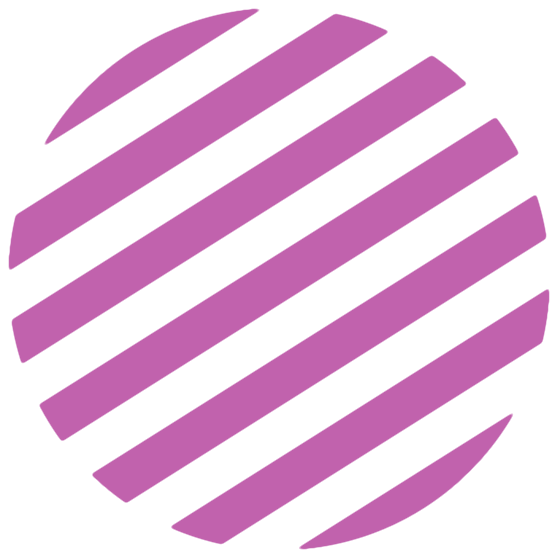
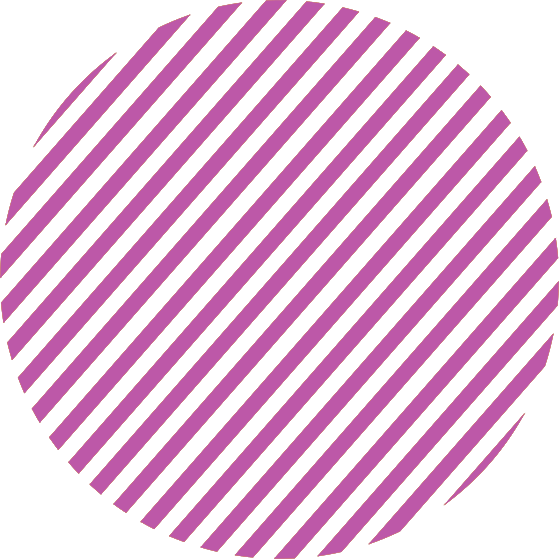
small changes and new circle img

diff --git a/src/components/addon/GalleryAddon1.jsx b/src/components/addon/GalleryAddon1.jsx
@@ -221,12 +221,12 @@ const GalleryAddon1 = ({ title }) => {
                       onClick={() =>
                         trackElementClickEvent(
                           "carousel_link",
-                          "Läs Mer...",
+                          "Läs Mer",
                           images[currentIndex].link
                         )
                       }
                     >
-                      Läs Mer...
+                      Läs Mer
                     </a>
                   </div>
                   <div className={styles.arrowContainer}>

diff --git a/src/components/addon/GalleryAddon2.jsx b/src/components/addon/GalleryAddon2.jsx
@@ -230,12 +230,12 @@ const GalleryAddon2 = ({ title }) => {
                       onClick={() =>
                         trackElementClickEvent(
                           "carousel_link",
-                          "Läs Mer...",
+                          "Läs Mer",
                           images[currentIndex].link
                         )
                       }
                     >
-                      Läs Mer...
+                      Läs Mer
                     </a>
                   </div>
                   <div className={styles.arrowContainer}>

diff --git a/src/components/addon/GalleryAddon3.jsx b/src/components/addon/GalleryAddon3.jsx
@@ -230,12 +230,12 @@ const GalleryAddon3 = ({ title }) => {
                       onClick={() =>
                         trackElementClickEvent(
                           "carousel_link",
-                          "Läs Mer...",
+                          "Läs Mer",
                           images[currentIndex].link
                         )
                       }
                     >
-                      Läs Mer...
+                      Läs Mer
                     </a>
                   </div>
                   <div className={styles.arrowContainer}>

diff --git a/src/components/addon/GalleryAddon4.jsx b/src/components/addon/GalleryAddon4.jsx
@@ -230,12 +230,12 @@ const GalleryAddon4 = ({ title }) => {
                       onClick={() =>
                         trackElementClickEvent(
                           "carousel_link",
-                          "Läs Mer...",
+                          "Läs Mer",
                           images[currentIndex].link
                         )
                       }
                     >
-                      Läs Mer...
+                      Läs Mer
                     </a>
                   </div>
                   <div className={styles.arrowContainer}>

diff --git a/src/components/home/Gallery.jsx b/src/components/home/Gallery.jsx
@@ -187,12 +187,12 @@ const Gallery = () => {
                       onClick={() =>
                         trackElementClickEvent(
                           "carousel_link",
-                          "Läs Mer...",
+                          "Läs Mer",
                           images[currentIndex].link
                         )
                       }
                     >
-                      Läs Mer...
+                      Läs Mer
                     </a>
                   </div>
                   <div className={styles.arrowContainer}>

diff --git a/src/components/home/Activity.jsx b/src/components/home/Activity.jsx
@@ -168,12 +168,12 @@ const ActivityCarousel = () => {
                       onClick={() =>
                         trackElementClickEvent(
                           "caption_link",
-                          "Läs Mer...",
+                          "Läs Mer",
                           slide.link
                         )
                       }
                     >
-                      Läs Mer...
+                      Läs Mer
                     </a>
                   </aside>
                   <div className={styles.arrowContainer}>

diff --git a/src/components/addon/ActivityAddon1.jsx b/src/components/addon/ActivityAddon1.jsx
@@ -189,12 +189,12 @@ const Carousel = () => {
                       onClick={() =>
                         trackElementClickEvent(
                           "caption_link",
-                          "Läs Mer...",
+                          "Läs Mer",
                           slide.link
                         )
                       }
                     >
-                      Läs Mer...
+                      Läs Mer
                     </a>
                   </div>
                   <div className={styles.arrowContainer}>

diff --git a/src/components/addon/ActivityAddon2.jsx b/src/components/addon/ActivityAddon2.jsx
@@ -189,12 +189,12 @@ const Carousel = () => {
                       onClick={() =>
                         trackElementClickEvent(
                           "caption_link",
-                          "Läs Mer...",
+                          "Läs Mer",
                           slide.link
                         )
                       }
                     >
-                      Läs Mer...
+                      Läs Mer
                     </a>
                   </div>
                   <div className={styles.arrowContainer}>

diff --git a/src/components/addon/ActivityAddon3.jsx b/src/components/addon/ActivityAddon3.jsx
@@ -193,12 +193,12 @@ const Carousel = () => {
                       onClick={() =>
                         trackElementClickEvent(
                           "caption_link",
-                          "Läs Mer...",
+                          "Läs Mer",
                           slide.link
                         )
                       }
                     >
-                      Läs Mer...
+                      Läs Mer
                     </a>
                   </div>
                   <div className={styles.arrowContainer}>

diff --git a/src/components/addon/ActivityAddon4.jsx b/src/components/addon/ActivityAddon4.jsx
@@ -189,12 +189,12 @@ const Carousel = () => {
                       onClick={() =>
                         trackElementClickEvent(
                           "caption_link",
-                          "Läs Mer...",
+                          "Läs Mer",
                           slide.link
                         )
                       }
                     >
-                      Läs Mer...
+                      Läs Mer
                     </a>
                   </div>
                   <div className={styles.arrowContainer}>

diff --git a/src/components/layouts/LayoutPageMain.jsx b/src/components/layouts/LayoutPageMain.jsx
@@ -19,6 +19,7 @@ import MapCircleAddon from "../addon/WeatherCircleAddon";
 import Extra from "../common/Extra";
 import ScrollDown from "../common/ScrollDown";
 import ScrollUp from "../common/ScrollUp";
+import ScrollToTop from "../common/ScrollToTop";
 import Cookies from "../common/Cookies";
 import Footer from "../common/Footer";
 
@@ -133,6 +134,7 @@ const LayoutPageMain = ({
       <Extra />
       <ScrollDown />
       <ScrollUp />
+      <ScrollToTop />
       <Cookies />
       <Footer />
     </main>

diff --git a/src/components/layouts/LayoutOther.jsx b/src/components/layouts/LayoutOther.jsx
@@ -22,6 +22,7 @@ import GalleryAddon4 from "../addon/GalleryAddon4";
 import Extra from "../common/Extra";
 import ScrollDown from "../common/ScrollDown";
 import ScrollUp from "../common/ScrollUp";
+import ScrollToTop from "../common/ScrollToTop";
 import Cookies from "../common/Cookies";
 import Footer from "../common/Footer";
 
@@ -136,6 +137,7 @@ const LayoutPageOther = ({
       <Extra />
       <ScrollDown />
       <ScrollUp />
+      <ScrollToTop />
       <Cookies />
       <Footer />
     </main>
